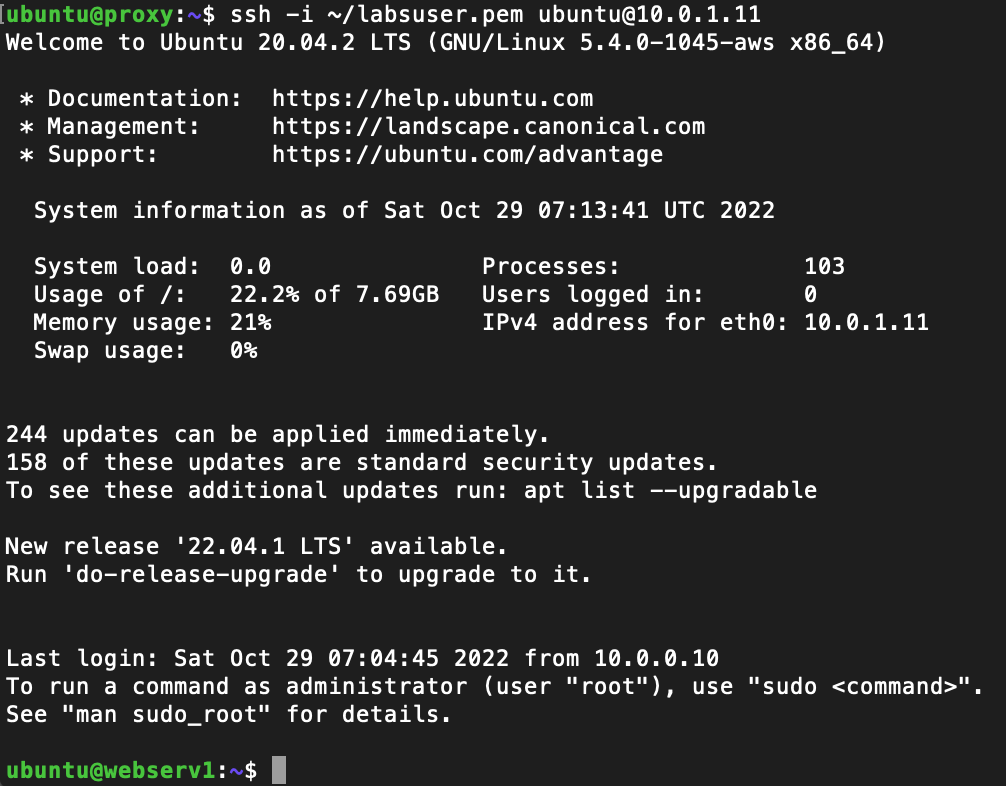
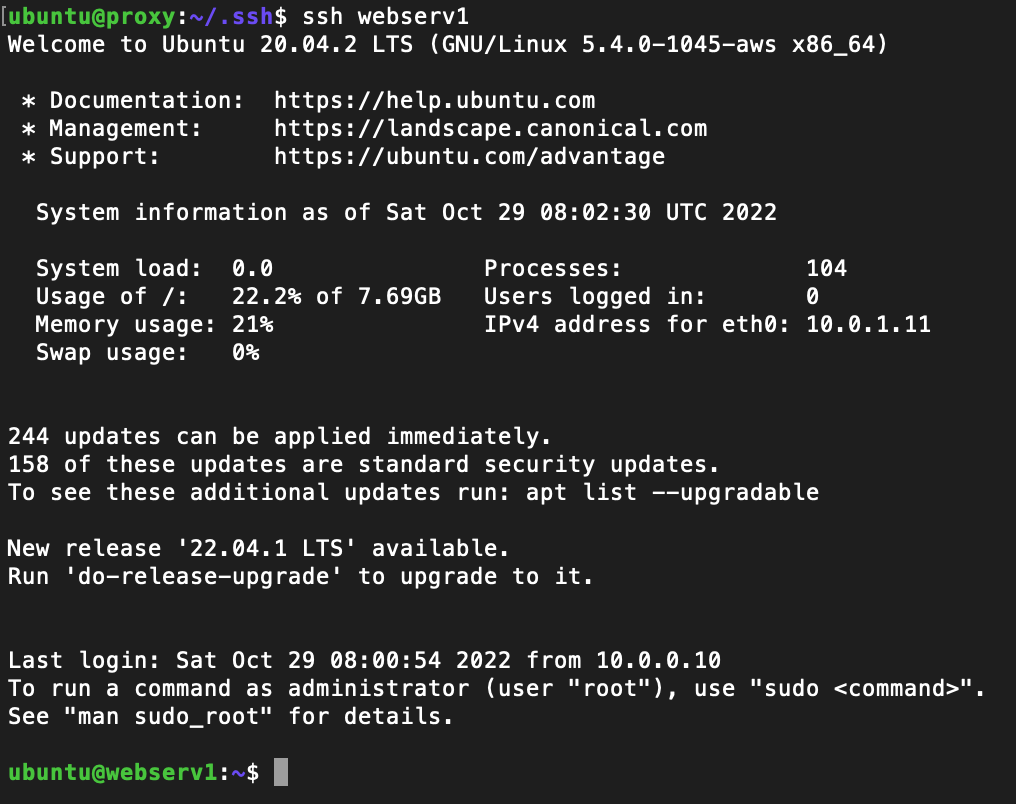
switched to config

diff --git a/Project4/README.md b/Project4/README.md
@@ -1,8 +1,8 @@
 ## Load Balancing Setup
 
-* Created an `/etc/hosts` file and included the private IP's of the two web server instances
-![etc/hosts screenshot](./screenshots/hosts.png)
+* Created an `/.ssh/config` file and included the private IP's of the two web server instances
+![etc/hosts screenshot](./screenshots/config.png)
 
-* to ssh the proxy server from my computer, I need to use my private key. So I will need this same key to get into the other instances. I copied the file from my local file system to the proxy instance and made sure to `chmod 400`
+* to ssh into the proxy server from my computer, I need to use my private key. And I will need this same key to get into the other instances. I copied the file from my local file system to the proxy instance and made sure to `chmod 400 keyname` to set the right permissions
 ![ssh connections screenshot](./screenshots/ssh1.png) 
 ![ssh connections screenshot](./screenshots/ssh2.png) 
